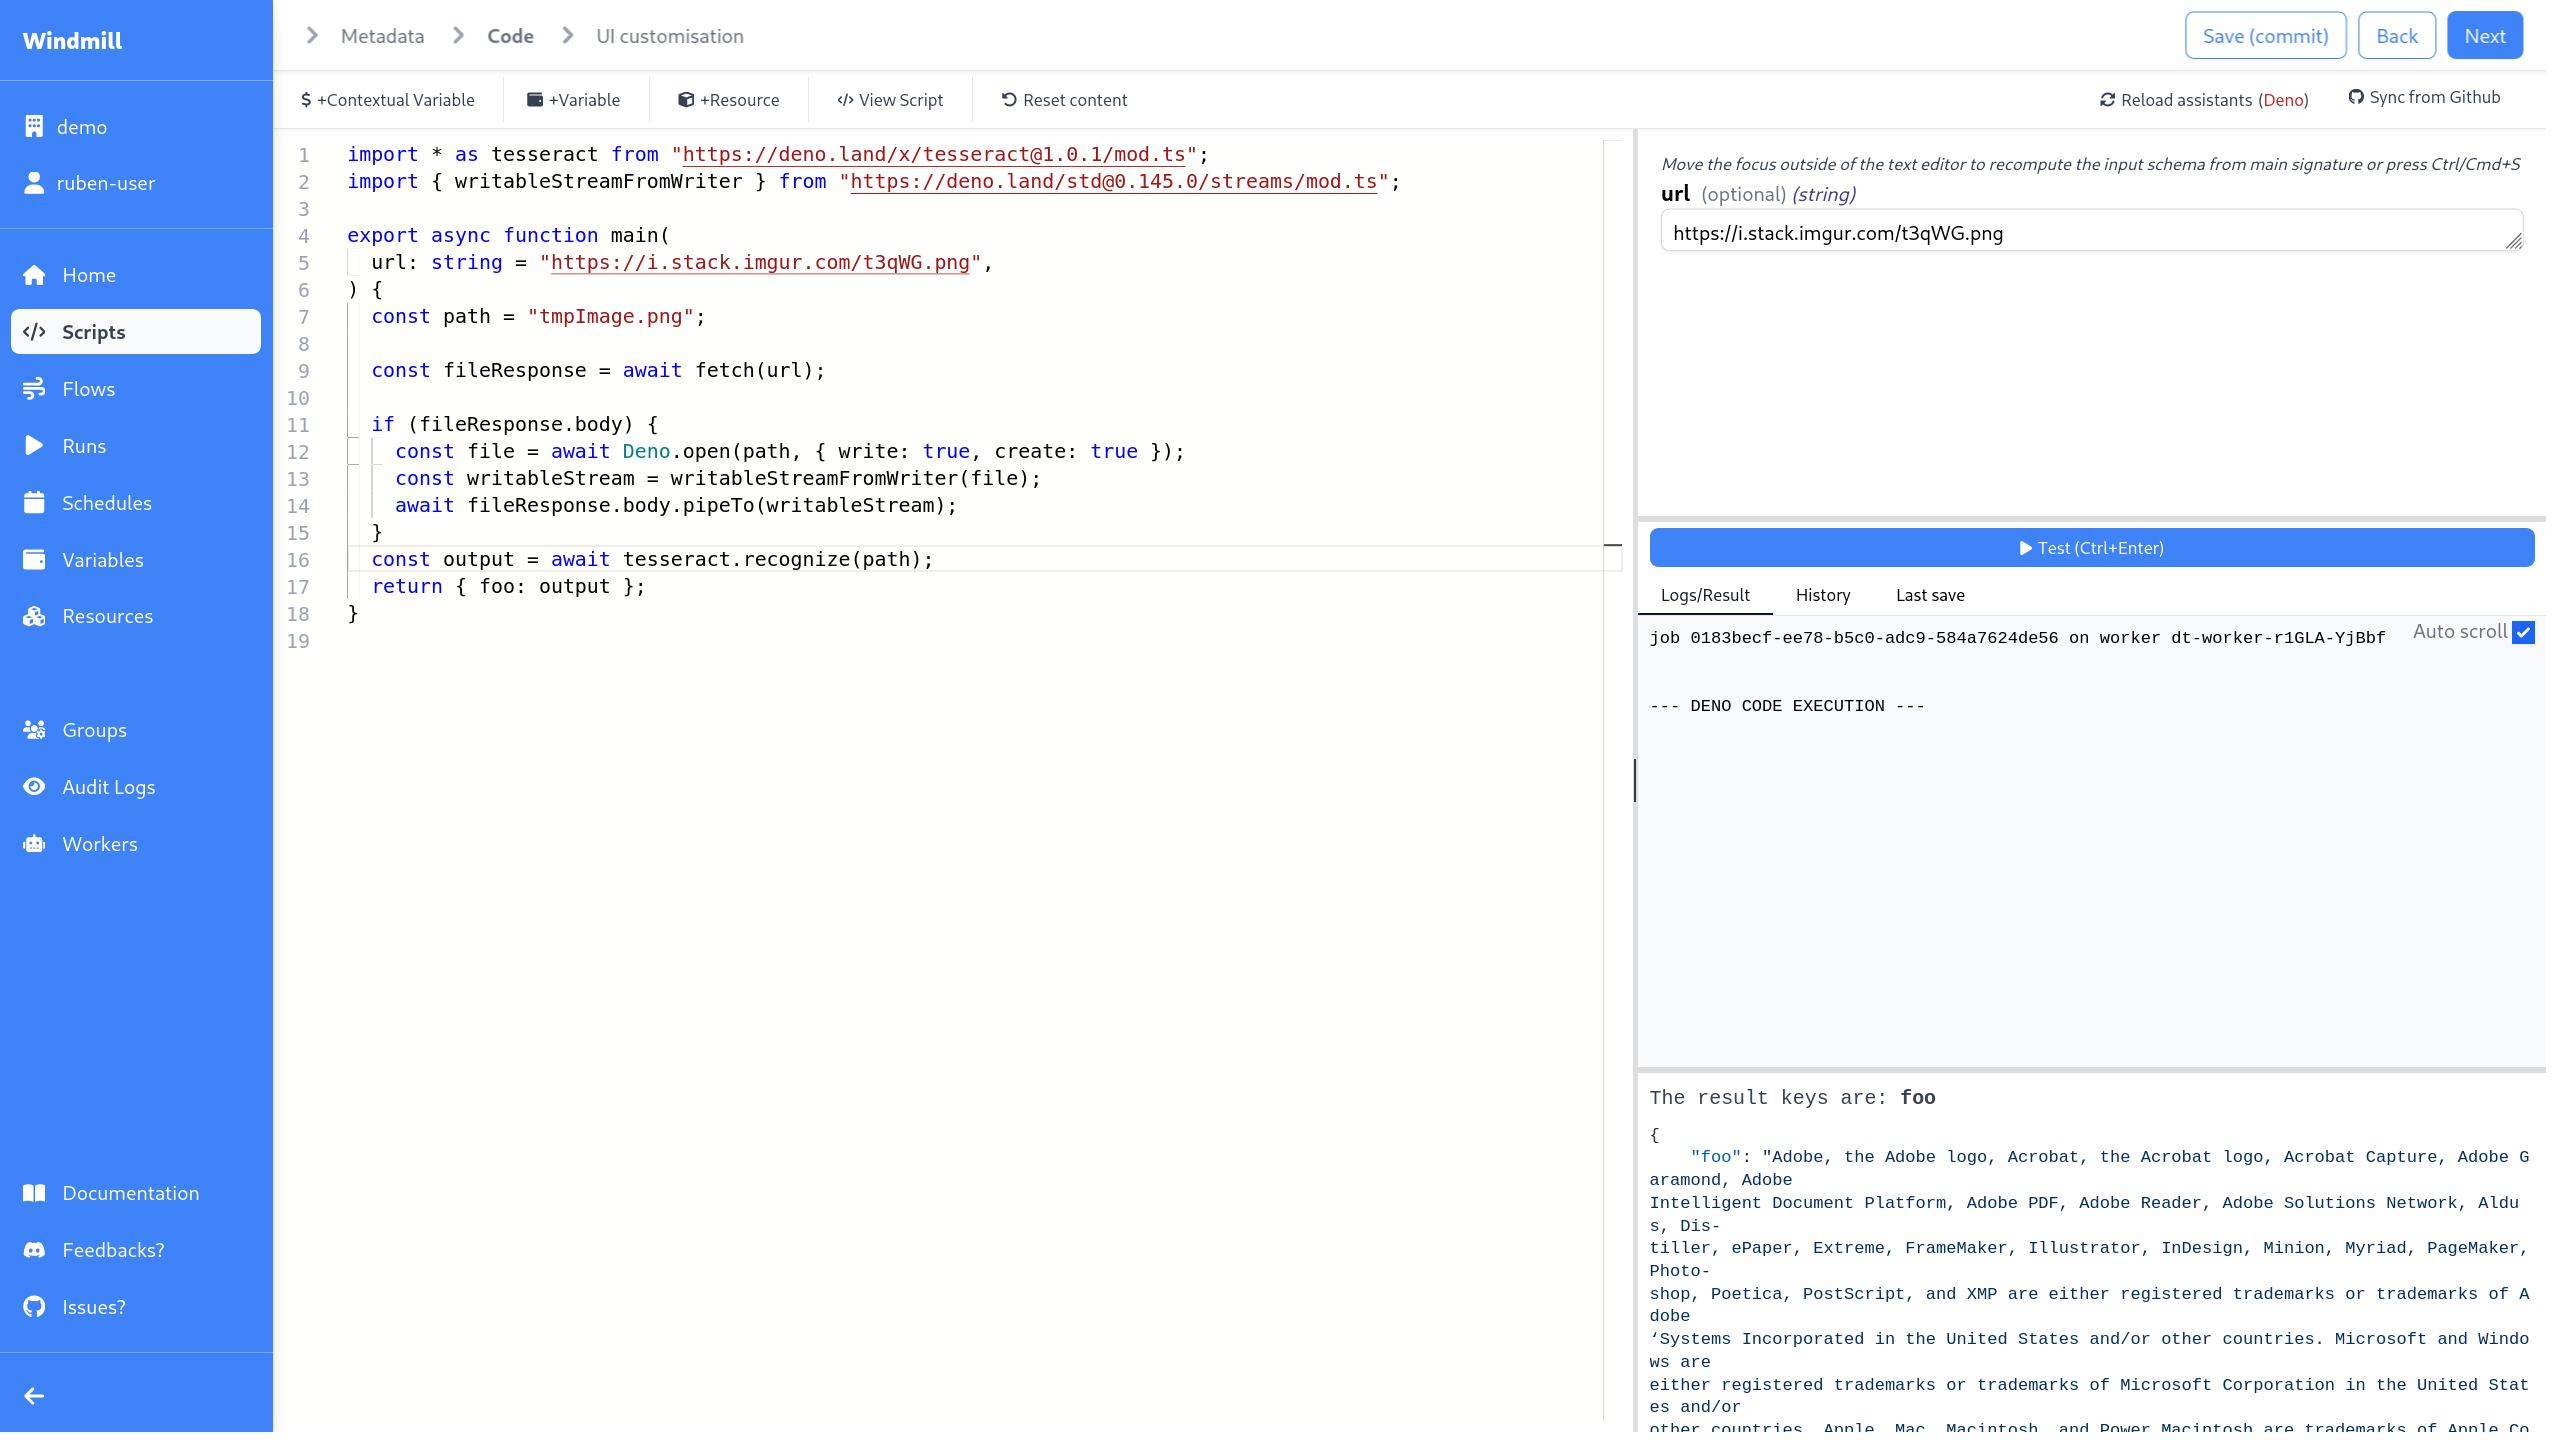
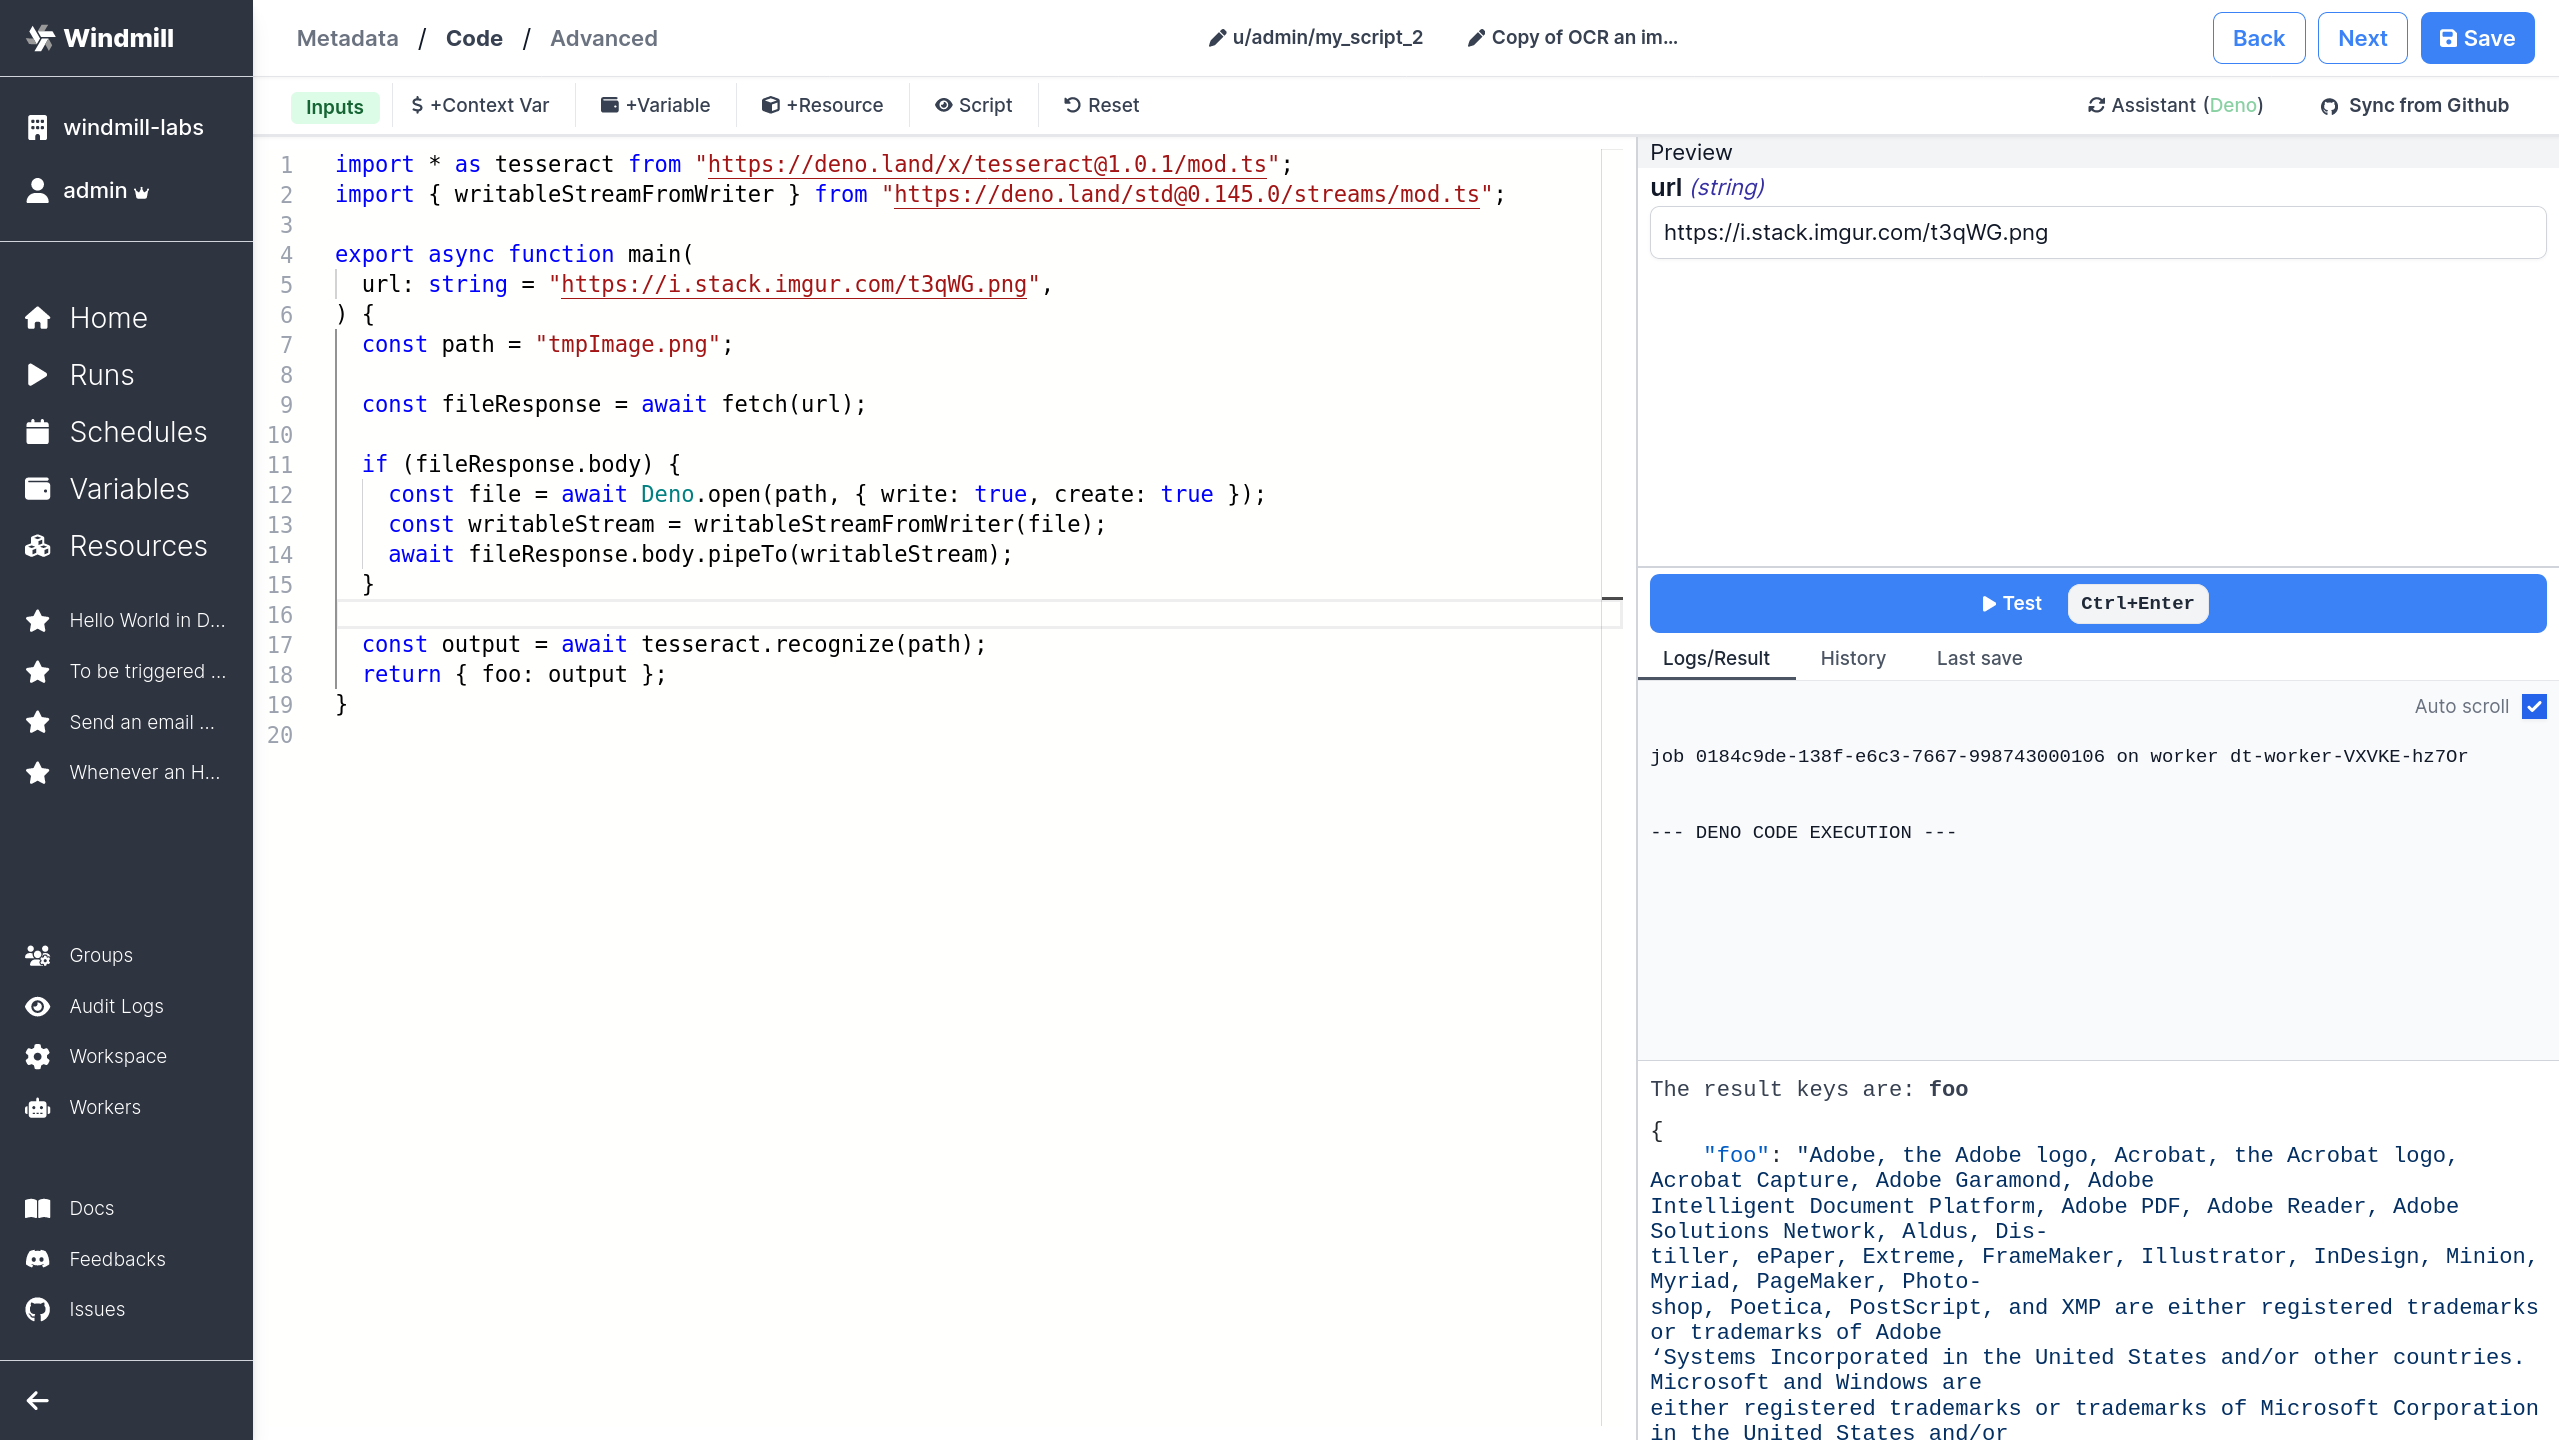
readme: nits and toc
Filtered-by: cfgstrip 0.2.0+167e2b2a3749

diff --git a/frontend/src/lib/components/flows/map/MapItem.svelte b/frontend/src/lib/components/flows/map/MapItem.svelte
@@ -8,6 +8,7 @@
 	import FlowBranchOneMap from './FlowBranchOneMap.svelte'
 	import FlowBranchAllMap from './FlowBranchAllMap.svelte'
 	import {
+		faArrowRotateForward,
 		faBuilding,
 		faCode,
 		faCodeBranch,
@@ -16,6 +17,7 @@
 	} from '@fortawesome/free-solid-svg-icons'
 	import Icon from 'svelte-awesome'
 	import IconedResourceType from '$lib/components/IconedResourceType.svelte'
+	import LanguageIcon from '$lib/components/common/languageIcons/LanguageIcon.svelte'
 
 	export let mod: FlowModule
 
@@ -51,7 +53,7 @@
 				{...itemProps}
 			>
 				<div slot="icon">
-					<Icon data={faRepeat} scale={0.8} />
+					<Icon data={faArrowRotateForward} scale={1.1} />
 				</div>
 			</FlowModuleSchemaItem>
 			<div class="flex flex-row w-full">
@@ -74,7 +76,7 @@
 				label={mod.summary || 'Run one branch'}
 			>
 				<div slot="icon">
-					<Icon data={faCodeBranch} scale={0.8} />
+					<Icon data={faCodeBranch} scale={1} />
 				</div>
 			</FlowModuleSchemaItem>
 			<FlowBranchOneMap bind:module={mod} />
@@ -90,7 +92,7 @@
 				label={mod.summary || 'Run all branches'}
 			>
 				<div slot="icon">
-					<Icon data={faCodeBranch} scale={0.8} />
+					<Icon data={faCodeBranch} scale={1} />
 				</div>
 			</FlowModuleSchemaItem>
 			<FlowBranchAllMap bind:module={mod} />
@@ -109,14 +111,16 @@
 			>
 				<div slot="icon">
 					{#if mod.value.type === 'rawscript'}
-						<Icon data={faCode} scale={0.8} />
+						<LanguageIcon lang={mod.value.language} width={16} height={16} />
 					{:else if mod.value.type === 'identity'}
-						<Icon data={faLongArrowDown} scale={0.8} />
+						<Icon data={faLongArrowDown} scale={1.1} />
 					{:else if mod.value.type === 'script'}
 						{#if mod.value.path.startsWith('hub/')}
-							<IconedResourceType name={mod.value.path.split('/')[2]} silent={true} />
+							<div class="w-5">
+								<IconedResourceType name={mod.value.path.split('/')[2]} silent={true} />
+							</div>
 						{:else}
-							<Icon data={faBuilding} scale={0.8} />
+							<Icon data={faBuilding} scale={1.1} />
 						{/if}
 					{/if}
 				</div>

diff --git a/frontend/src/lib/components/sidebar/SidebarContent.svelte b/frontend/src/lib/components/sidebar/SidebarContent.svelte
@@ -59,10 +59,12 @@
 				<MenuLink class="text-lg" {...menuLink} {isCollapsed} />
 			{/each}
 			<div class="h-2" />
-			<div class="max-h-40 overflow-y-auto flex flex-col space-y-1.5 max-w-xs">
-				{#each favoriteLinks as menuLink (menuLink.href)}
-					<MenuLink class="text-xs max-w-xs truncate" {...menuLink} {isCollapsed} icon={faStar} />
-				{/each}
+			<div class="max-h-40 overflow-y-auto  max-w-xs truncate">
+				<div class="flex flex-col max-h-min">
+					{#each favoriteLinks as menuLink (menuLink.href)}
+						<MenuLink class="text-xs max-w-xs truncate" {...menuLink} {isCollapsed} icon={faStar} />
+					{/each}
+				</div>
 			</div>
 			<div class="h-2" />
 		</div>

diff --git a/frontend/src/lib/components/flows/map/FlowBranchOneMap.svelte b/frontend/src/lib/components/flows/map/FlowBranchOneMap.svelte
@@ -61,7 +61,7 @@
 						: ''
 				)}
 			>
-				<Icon data={faCodeBranch} class="mr-2" />
+				<Icon data={faCodeBranch} scale={1.1} class="mr-2" />
 				<span
 					class="truncate text-xs flex flex-row justify-between w-full flex-wrap gap-2 items-center"
 				>
@@ -87,7 +87,7 @@
 								: ''
 						)}
 					>
-						<Icon data={faCodeBranch} class="mr-2" />
+						<Icon data={faCodeBranch} scale={1.1} class="mr-2" />
 						<span
 							class="text-xs flex flex-row justify-between w-full flex-wrap gap-2 items-center truncate"
 						>

diff --git a/frontend/src/lib/components/flows/map/FlowBranchAllMap.svelte b/frontend/src/lib/components/flows/map/FlowBranchAllMap.svelte
@@ -64,7 +64,7 @@
 								: ''
 						)}
 					>
-						<Icon data={faCodeBranch} class="mr-2" />
+						<Icon data={faCodeBranch} scale={1.1} class="mr-2" />
 						<span
 							class="text-xs flex flex-row justify-between w-full flex-wrap gap-2 items-center truncate"
 						>

diff --git a/frontend/src/lib/components/sidebar/MenuLink.svelte b/frontend/src/lib/components/sidebar/MenuLink.svelte
@@ -46,7 +46,7 @@
 		{#if !isCollapsed}
 			<span
 				class={classNames(
-					'whitespace-pre text-white',
+					'whitespace-pre text-white truncate',
 					isSelected ? ' text-gray-700 font-bold' : 'text-white group-hover:text-gray-900'
 				)}
 			>

diff --git a/backend/windmill-api/src/apps.rs b/backend/windmill-api/src/apps.rs
@@ -127,8 +127,8 @@ async fn list_apps(
     let sqlb = SqlBuilder::select_from("app")
         .fields(&[
             "id",
-            "workspace_id",
-            "path",
+            "app.workspace_id",
+            "app.path",
             "summary",
             "versions[array_upper(versions, 1)] as version",
             "policy->>'execution_mode' as execution_mode",
@@ -138,7 +138,7 @@ async fn list_apps(
         .left()
         .join("favorite")
         .on(
-            "favorite.favorite_kind = 'app' AND favorite.workspace_id = o.workspace_id AND favorite.path = o.path AND favorite.usr = ?"
+            "favorite.favorite_kind = 'app' AND favorite.workspace_id = app.workspace_id AND favorite.path = app.path AND favorite.usr = ?"
                 .bind(&authed.username),
         )
         .order_desc("favorite.path IS NOT NULL")

diff --git a/README.md b/README.md
@@ -47,6 +47,7 @@ Windmill Labs offers commercial licenses, an enterprise edition, local hub mirro
 <b>Disclaimer: </b>Windmill is in <b>BETA</b>. It is secure to run in production but we are still <a href="https://github.com/orgs/windmill-labs/projects/2">improving the product fast<a/>.
 </p>
 
+![Windmill Screenshot](./imgs/windmill-flow.png)
 ![Windmill Screenshot](./imgs/windmill.png)
 
 Windmill is <b>fully open-sourced (AGPLv3)</b>:
@@ -80,31 +81,21 @@ Windmill is <b>fully open-sourced (AGPLv3)</b>:
 1. Define a minimal and generic script in Python, Typescript, Go or Bash that solves a
    specific task. Here sending an email with SMTP. The code can be defined in
    the provided Web IDE or synchronized with your own github repo:
-   ![Step 1](./imgs/python-script.png)
+   ![Step 1](./imgs/windmill-editor.png)
 
-2. Your scripts parameters are automatically parsed and generate a frontend. You
-   can narrow down the types during task definition to specify regex for string,
-   an enum or a specific format for objects. Each script correspond to an app by
-   itself: ![Step 2](./imgs/arguments.png)
+2. Your scripts parameters are automatically parsed and generate a frontend. 
+   ![Step 2](./imgs/windmill-run.png)
+   ![Step 3](./imgs/windmill-result.png)
 
 3. Make it flow! You can chain your scripts or scripts made by the community
-   shared on [WindmillHub](https://hub.windmill.dev). There is tight integration
-   between Windmill and the hub to make it easy to build flows from a soon-to-be
-   exhaustive library of generic modules. In flows, one can pipe output to input
-   using rich expressions that are just plain Javascript underneath. Flows
-   support for-loops, branching, approval steps. As such and coupled with
-   inputs being able to refer to any step's output, they are actual DAG rather
-   than just linear sequences. They are backed by an open JSON spec we call
-   [OpenFlow](https://docs.windmill.dev/docs/openflow)
+   shared on [WindmillHub](https://hub.windmill.dev). 
+  ![Step 4](./imgs/windmill-flow.png)
 
-Both scripts and flows are not restricted to be triggered by the UI. They can be
-triggered by a schedule, watch for changes (using
-[internal states](https://docs.windmill.dev/docs/reference#internal-state)) or
-triggered through API with either an async or sync webhook. The latter kind of
-endpoints make Windmill akin to a self-hostable AWS Lambda. Windmill can be the
-central place to host, build and run all of your integrations, automation and
-internal apps. We include credentials management and OAuth integration, groups
-and much more!
+4. (Coming soon) Build complex UI on top of your scripts and flows. 
+
+Scripts and flows can also be triggered by a cron schedule '*/5 * * * *' or through webhooks.
+
+You can build your entire infra on top of Windmill!
 
 ## CLI
 
